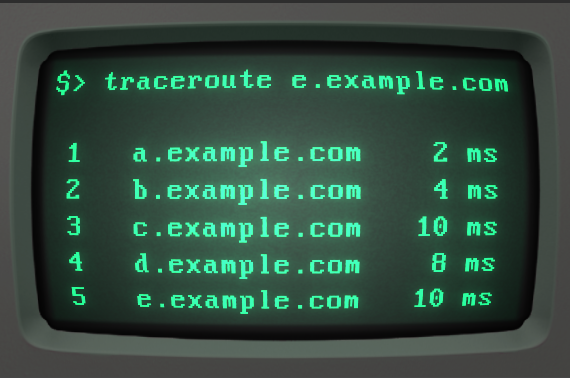
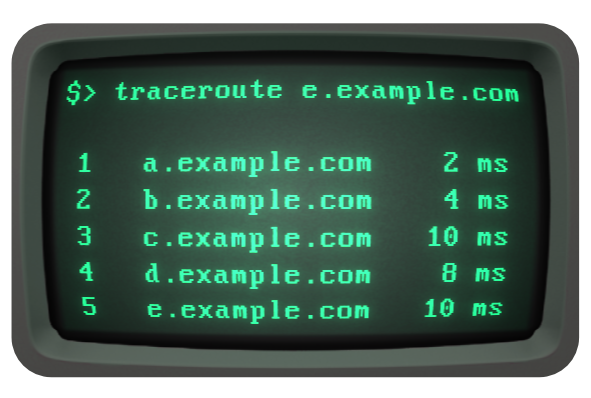
round corners are out of fassion these days, but i still like them

diff --git a/traceroute/traceroute_animation_1_and_2_routers.html b/traceroute/traceroute_animation_1_and_2_routers.html
@@ -533,7 +533,7 @@ Note: there is no delay in any of the packets passing <strong>through</strong> r
 <div style="width: 960px; color: black; background-color: #d9d9d9; border: 2px solid black; padding: 5px; margin: 20px;">
 <img src="images/traceroute-crt-term.png" width="500">
 <button class="start_divergent_paths">start</button><button class="stop_divergent_paths">stop</button>divergent paths
-<img class="my_class_divergent_paths freezeframe-responsive" src="images/divergent-paths-traceroute-with-crt.gif" >
+<img class="my_class_divergent_paths freezeframe-responsive" src="images/divergent-paths-traceroute-with-crt-round-corners.gif" >
 <br><br>
 
 
